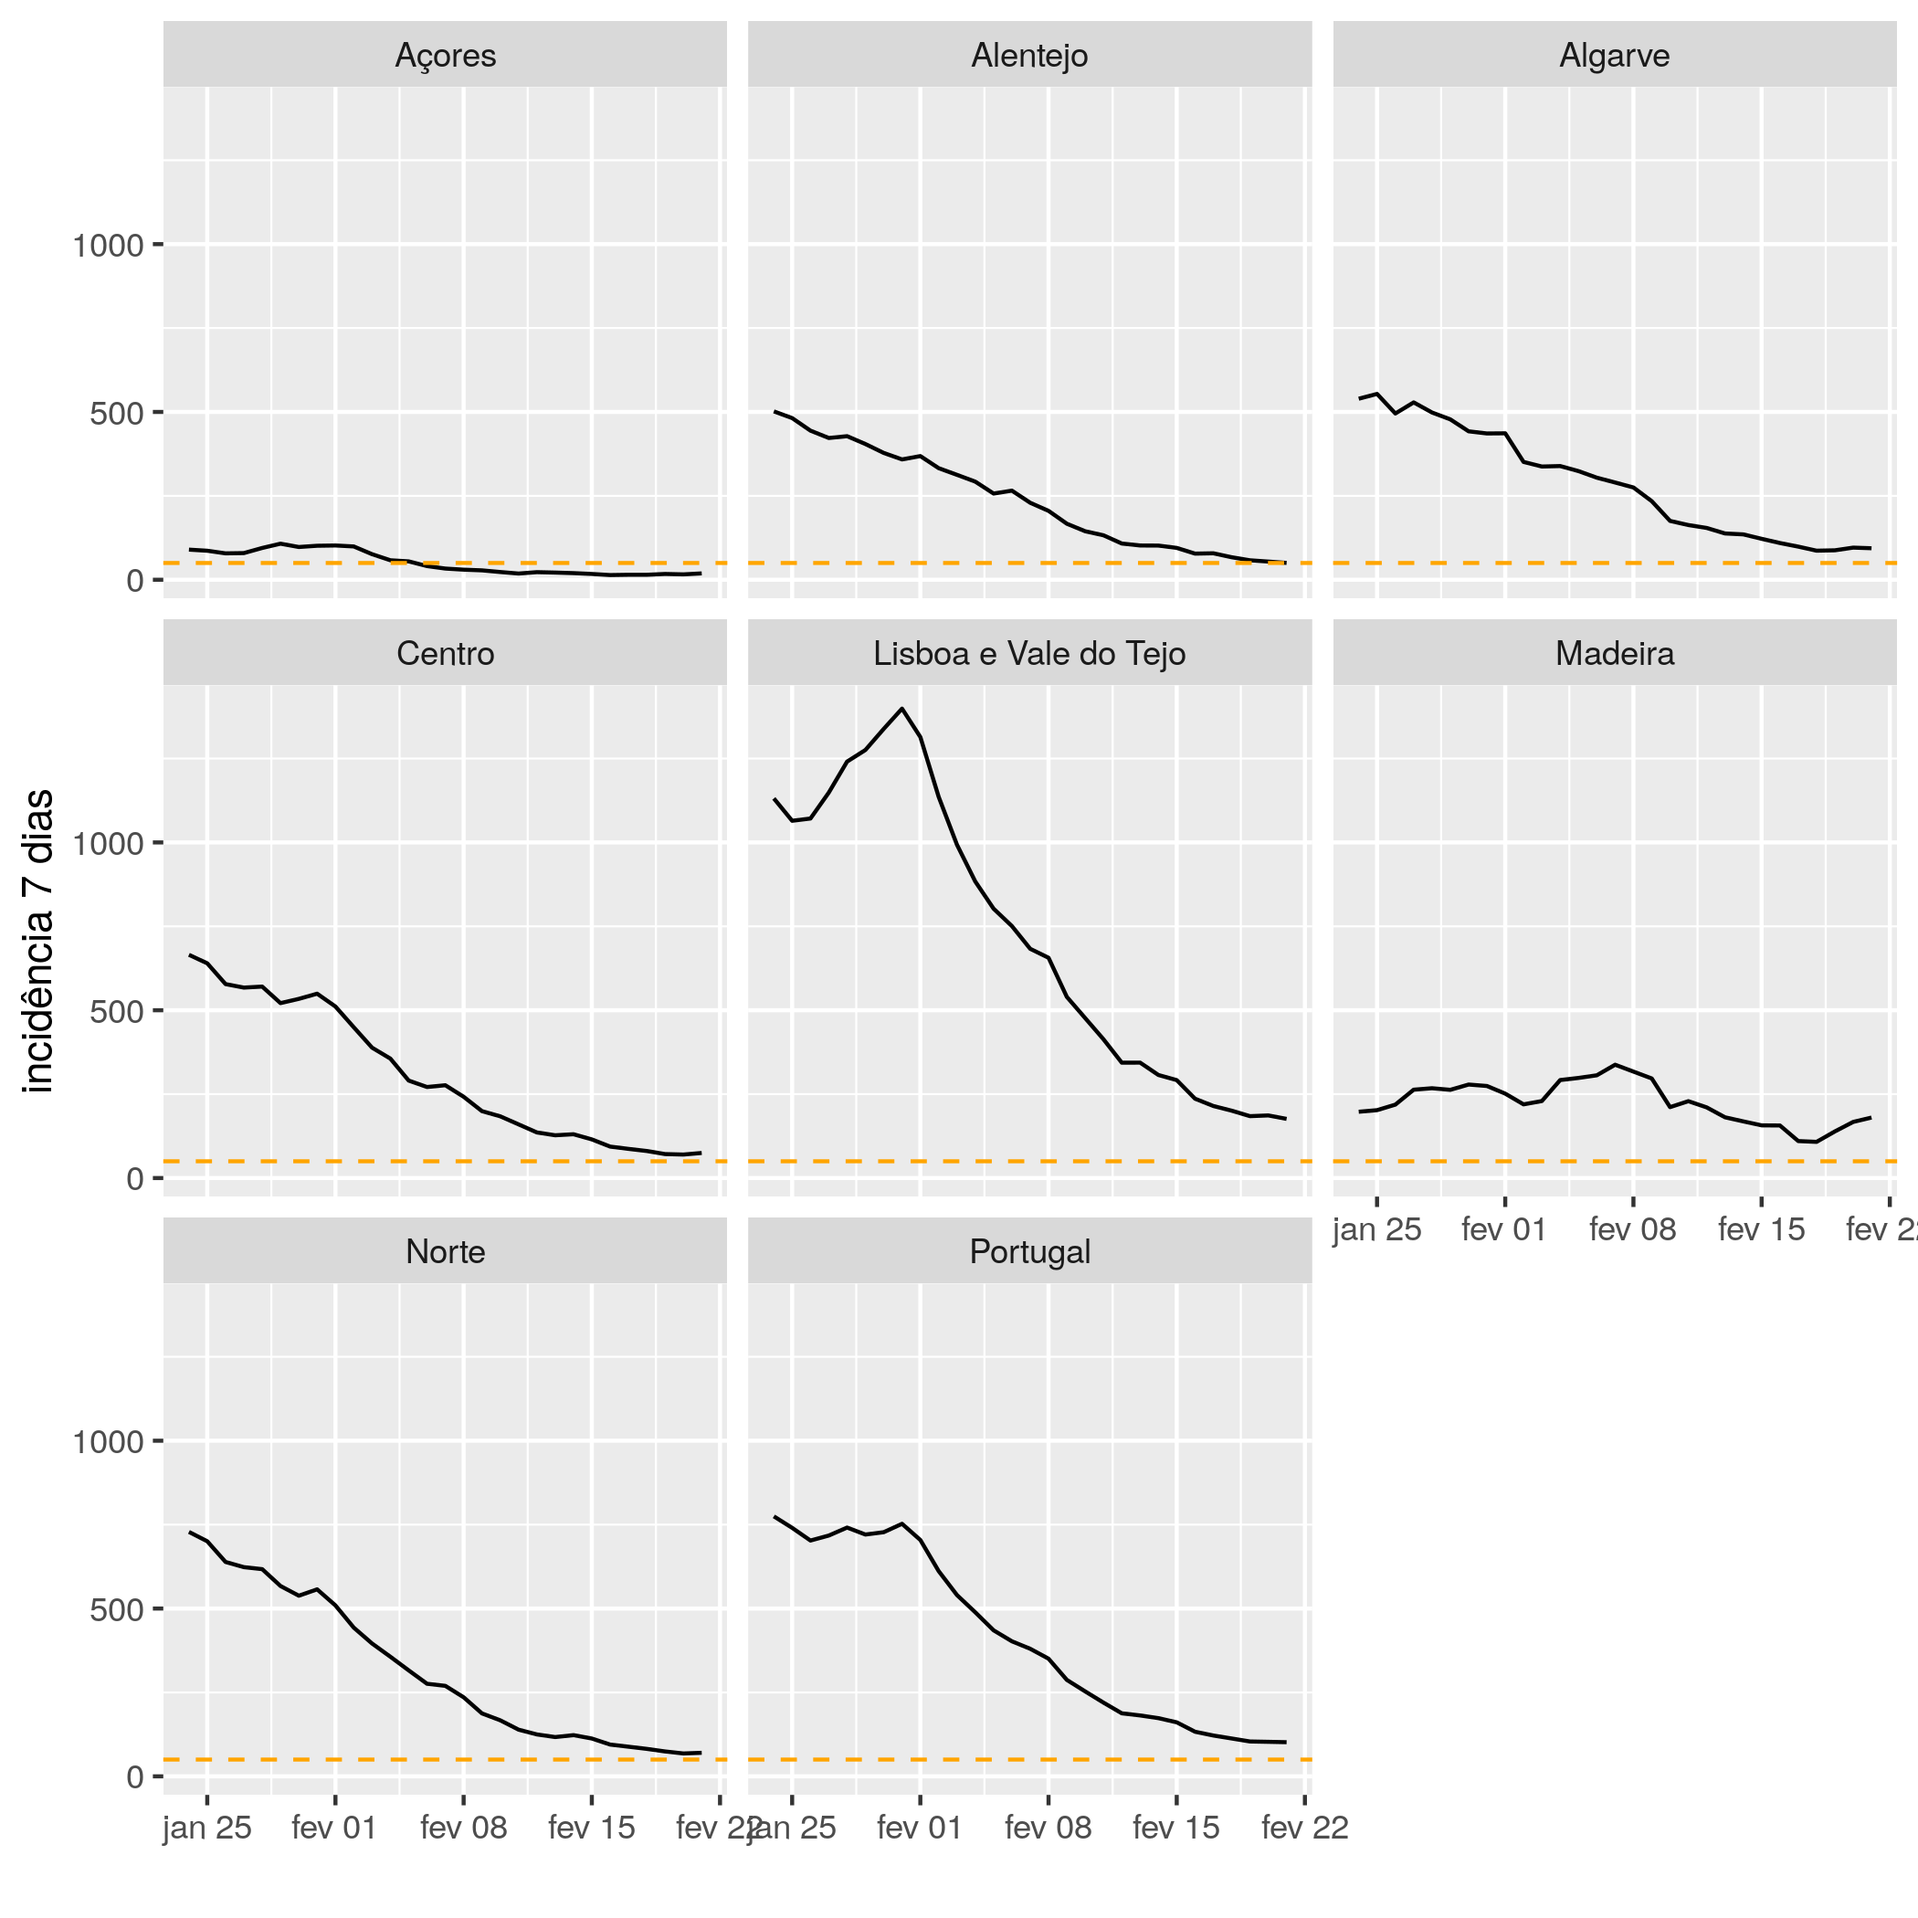
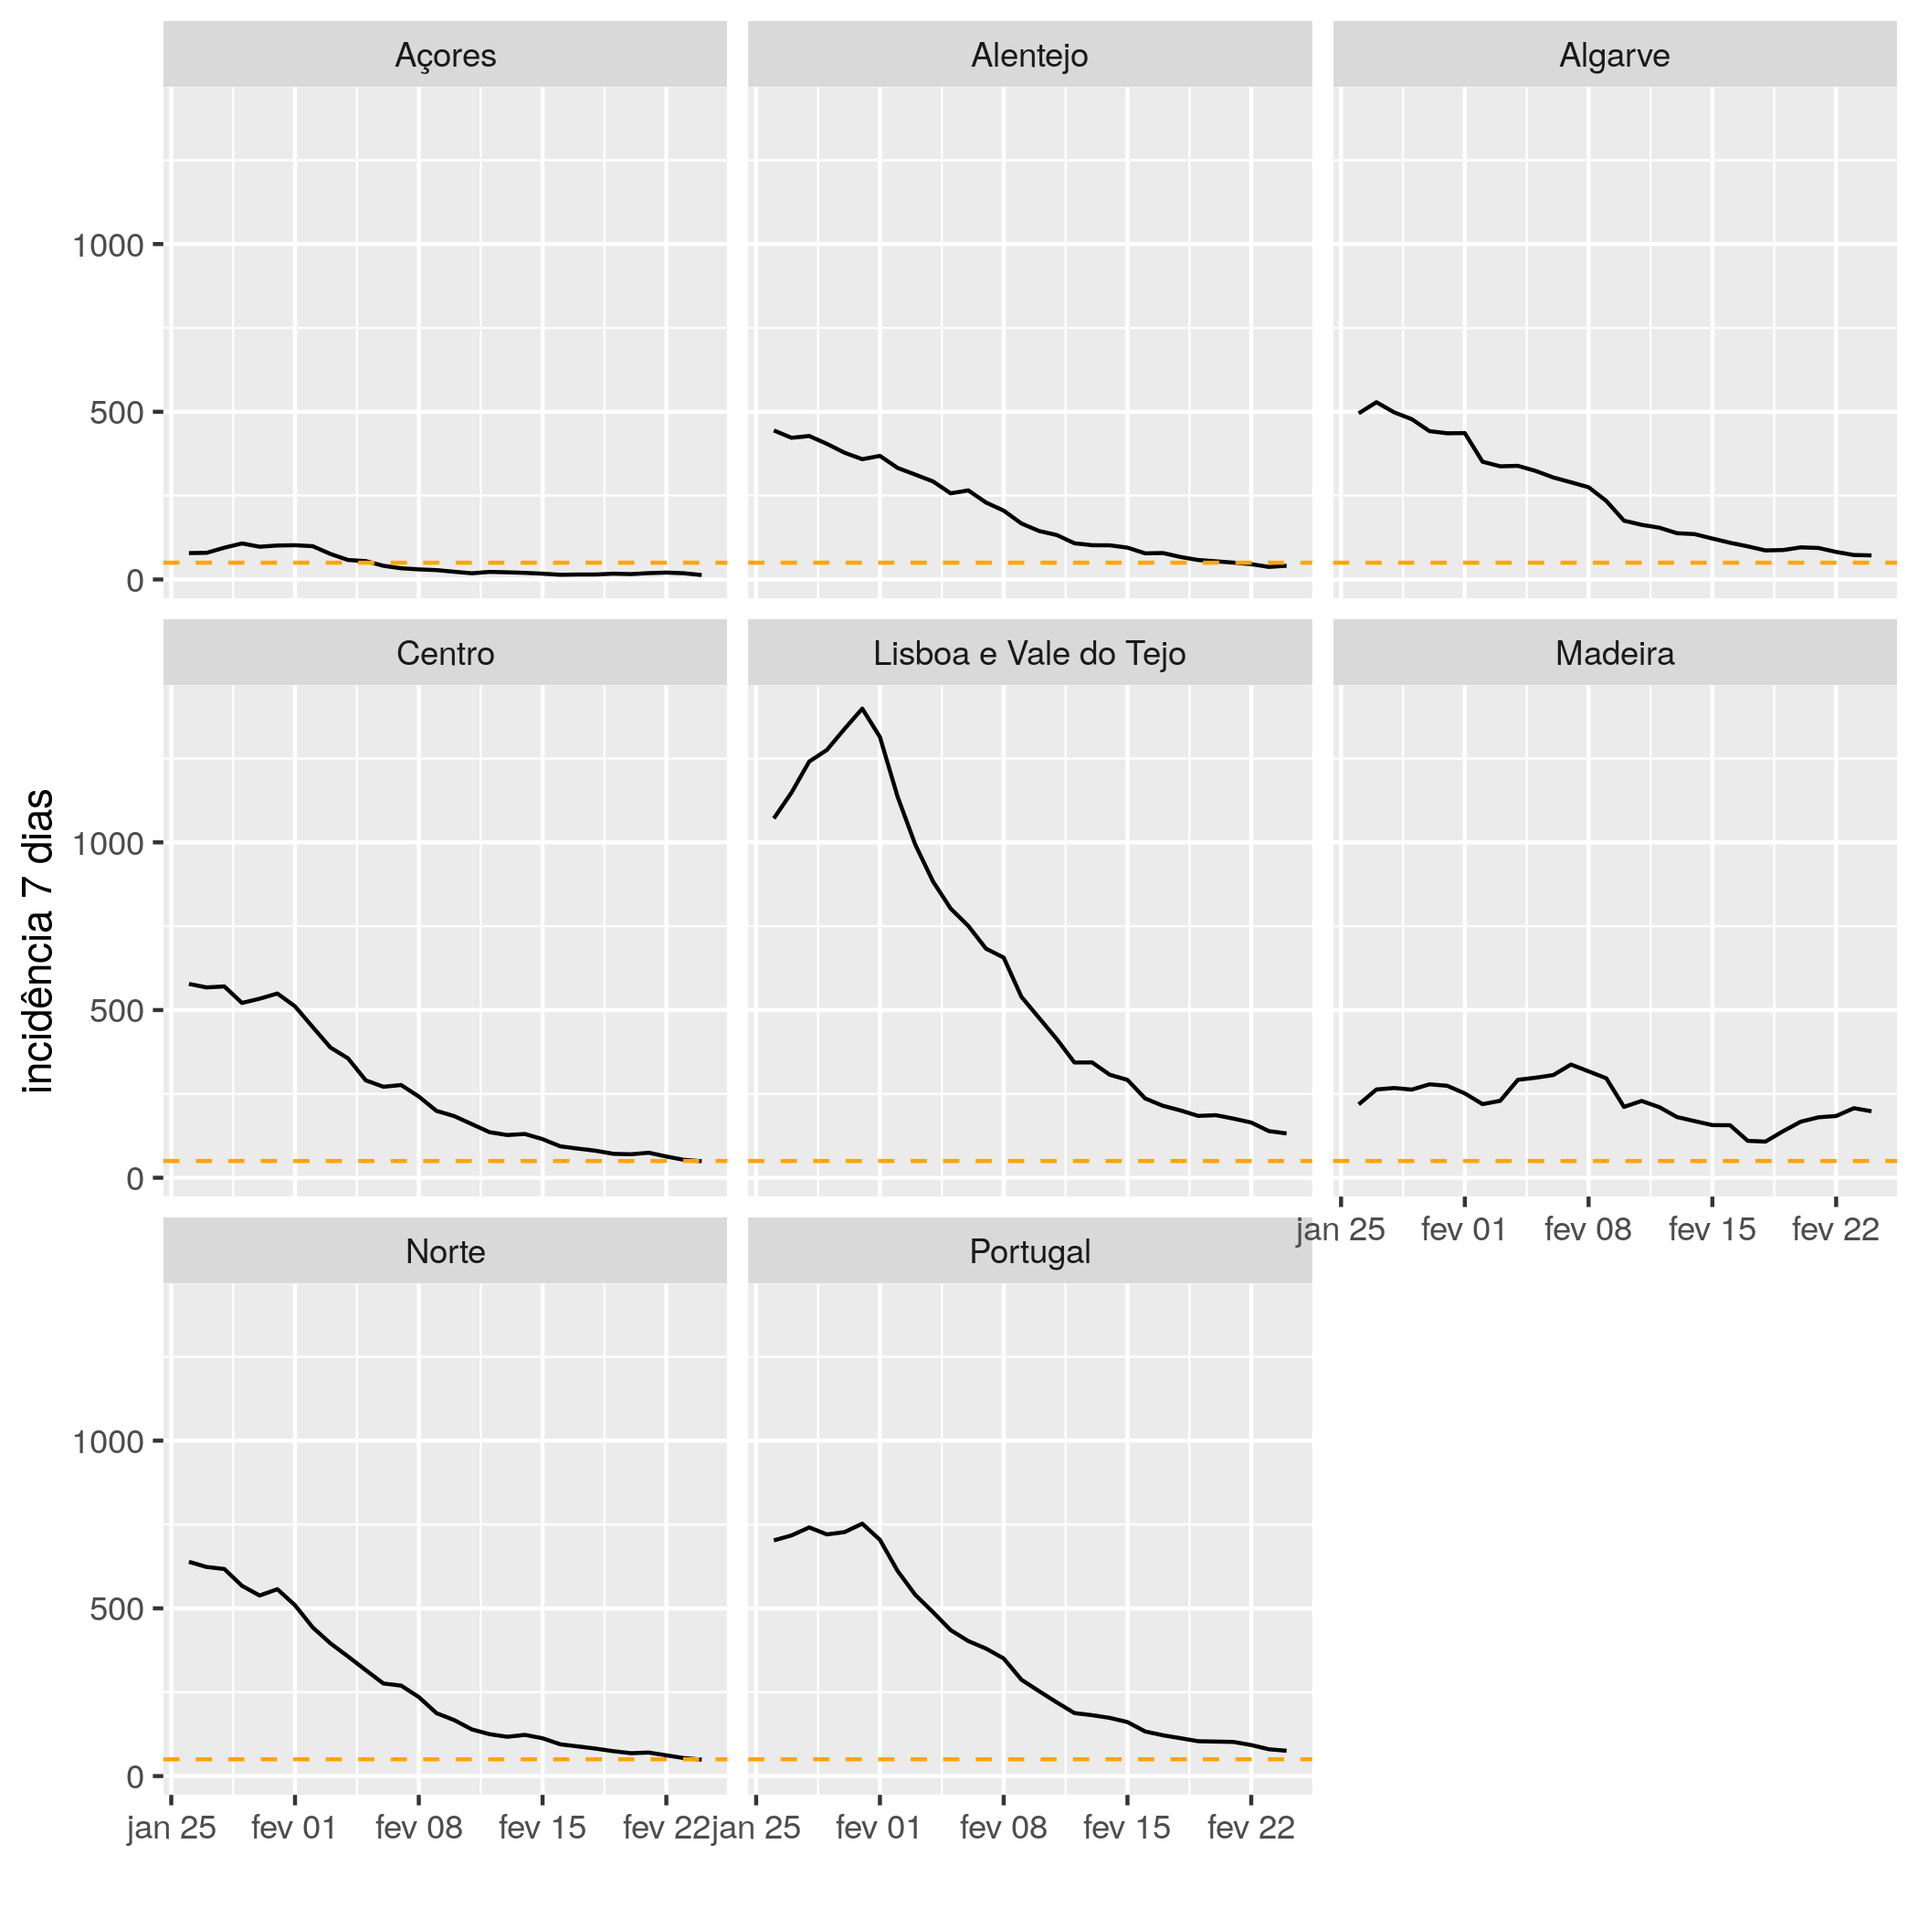
iupi

diff --git a/README.md b/README.md
@@ -1,7 +1,7 @@
 # Contexto
 A incidência por 100000 habitantes em 7 dias é o valor de referência para decretar regiões de risco pelas autoridades de saúde alemãs (valor charneira é 50). Gráficos atualizados diariamente. Para ajudar quem quer viajar para a Alemanha ou vir passar férias a Portugal.
 
-Dados mais recentes de 2021-02-21.
+Dados mais recentes de 2021-02-24.
 
 # Incidência por 100000 habitantes em 7 dias
 ## Últimos 30 dias
